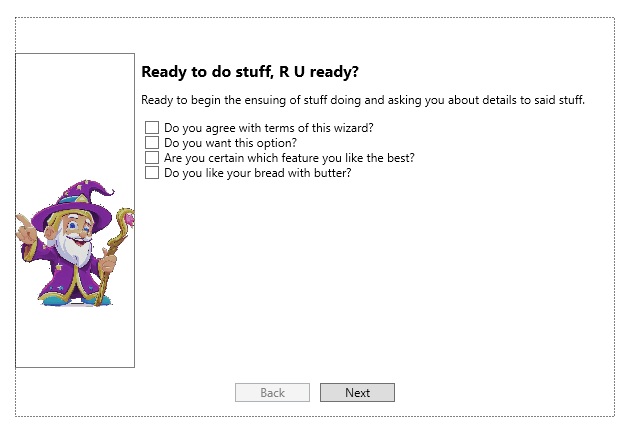
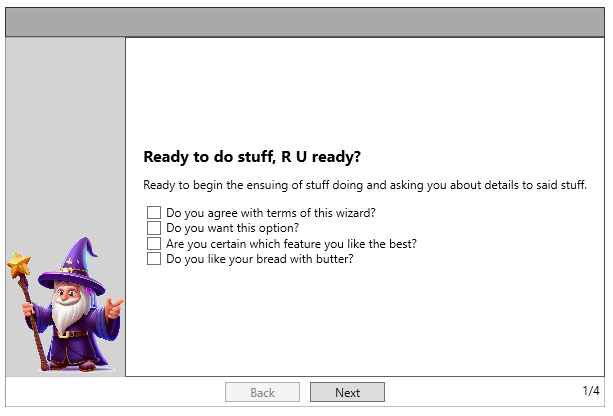
add new images for readme updated numericUpDown. etc.

diff --git a/Themes/Generic.xaml b/Themes/Generic.xaml
@@ -97,43 +97,7 @@
     </Style>
 
 
-    <!--<Style TargetType="{x:Type local:CollectionControlDialog}">
-        <Setter Property="Template">
-            <Setter.Value>
-                <ControlTemplate TargetType="{x:Type local:CollectionControlDialog}">
-                    <Border
-                        Background="{TemplateBinding Background}"
-                        BorderBrush="{TemplateBinding BorderBrush}"
-                        BorderThickness="{TemplateBinding BorderThickness}">
-                        <Grid>
-                            <Grid.RowDefinitions>
-                                <RowDefinition Height="*" />
-                                <RowDefinition Height="Auto" />
-                            </Grid.RowDefinitions>
 
-                            <ListBox
-                                Grid.Row="0"
-                                ItemsSource="{Binding ItemsSource, RelativeSource={RelativeSource TemplatedParent}}"
-                                SelectedItem="{Binding SelectedItem, RelativeSource={RelativeSource TemplatedParent}, Mode=TwoWay}" />
-
-                            <StackPanel Grid.Row="1" Orientation="Horizontal">
-                                <Button
-                                    Width="75"
-                                    Margin="5"
-                                    Command="{Binding AddCommand, RelativeSource={RelativeSource TemplatedParent}}"
-                                    Content="Add" />
-                                <Button
-                                    Width="75"
-                                    Margin="5"
-                                    Command="{Binding RemoveCommand, RelativeSource={RelativeSource TemplatedParent}}"
-                                    Content="Remove" />
-                            </StackPanel>
-                        </Grid>
-                    </Border>
-                </ControlTemplate>
-            </Setter.Value>
-        </Setter>
-    </Style>-->
 
     <Style TargetType="{x:Type local:TerminalControl}">
         <Setter Property="Template">
@@ -143,47 +107,52 @@
                         Background="Black"
                         BorderBrush="Gray"
                         BorderThickness="1">
-                        <Grid>
-                            <Grid.RowDefinitions>
-                                <RowDefinition Height="*" />
-                                <RowDefinition Height="Auto" />
-                            </Grid.RowDefinitions>
-                            <ScrollViewer Grid.Row="0" VerticalScrollBarVisibility="Auto">
-                                <TextBlock
-                                    Padding="10"
-                                    FontFamily="Consolas"
-                                    Foreground="LimeGreen"
-                                    Text="{TemplateBinding OutputText}" />
-                            </ScrollViewer>
-                            <Border
-                                Grid.Row="1"
-                                Padding="10"
-                                Background="Black">
-                                <TextBox
+                        <ScrollViewer>
+                            <Grid>
+                                <Grid.RowDefinitions>
+                                    <RowDefinition Height="*" />
+                                    <RowDefinition Height="Auto" />
+                                </Grid.RowDefinitions>
+                                <ScrollViewer
+                                    Grid.Row="0"
+                                    MaxHeight="400"
+                                    VerticalScrollBarVisibility="Auto">
+                                    <TextBlock
+                                        Padding="10"
+                                        FontFamily="Consolas"
+                                        Foreground="LimeGreen"
+                                        Text="{TemplateBinding OutputText}" />
+                                </ScrollViewer>
+                                <Border
                                     Grid.Row="1"
-                                    local:TextBoxEnterCommandBehavior.EnterCommand="{Binding ExecuteCommandCommand, RelativeSource={RelativeSource FindAncestor, AncestorType={x:Type local:TerminalControl}}}"
-                                    Background="Black"
-                                    BorderThickness="0"
-                                    CaretBrush="LimeGreen"
-                                    FontFamily="Consolas"
-                                    Foreground="LimeGreen"
-                                    Text="{Binding InputText, RelativeSource={RelativeSource TemplatedParent}, Mode=TwoWay, UpdateSourceTrigger=PropertyChanged}">
-                                    <TextBox.Template>
-                                        <ControlTemplate TargetType="TextBox">
-                                            <StackPanel Orientation="Horizontal">
-                                                <TextBlock
-                                                    Background="Black"
-                                                    FontFamily="Consolas"
-                                                    Foreground="LimeGreen"
-                                                    Text="{Binding CurrentDirectory, RelativeSource={RelativeSource FindAncestor, AncestorType={x:Type local:TerminalControl}}}" />
-                                                <ScrollViewer x:Name="PART_ContentHost" />
-                                            </StackPanel>
-                                        </ControlTemplate>
-                                    </TextBox.Template>
-                                </TextBox>
+                                    Padding="10"
+                                    Background="Black">
+                                    <TextBox
+                                        Grid.Row="1"
+                                        local:TextBoxEnterCommandBehavior.EnterCommand="{Binding ExecuteCommandCommand, RelativeSource={RelativeSource FindAncestor, AncestorType={x:Type local:TerminalControl}}}"
+                                        Background="Black"
+                                        BorderThickness="1"
+                                        CaretBrush="LimeGreen"
+                                        FontFamily="Consolas"
+                                        Foreground="LimeGreen"
+                                        Text="{Binding InputText, RelativeSource={RelativeSource TemplatedParent}, Mode=TwoWay, UpdateSourceTrigger=PropertyChanged}">
+                                        <TextBox.Template>
+                                            <ControlTemplate TargetType="TextBox">
+                                                <StackPanel Orientation="Horizontal">
+                                                    <TextBlock
+                                                        Background="Black"
+                                                        FontFamily="Consolas"
+                                                        Foreground="LimeGreen"
+                                                        Text="{Binding CurrentDirectory, RelativeSource={RelativeSource FindAncestor, AncestorType={x:Type local:TerminalControl}}}" />
+                                                    <ScrollViewer x:Name="PART_ContentHost" />
+                                                </StackPanel>
+                                            </ControlTemplate>
+                                        </TextBox.Template>
+                                    </TextBox>
 
-                            </Border>
-                        </Grid>
+                                </Border>
+                            </Grid>
+                        </ScrollViewer>
                     </Border>
                 </ControlTemplate>
             </Setter.Value>

diff --git a/Themes/NumericUpDownStyles.xaml b/Themes/NumericUpDownStyles.xaml
@@ -6,54 +6,57 @@
         <Setter Property="Template">
             <Setter.Value>
                 <ControlTemplate TargetType="{x:Type local:NumericUpDown}">
-                    <Grid>
-                        <Grid.ColumnDefinitions>
-                            <ColumnDefinition Width="*" />
-                            <ColumnDefinition Width="Auto" />
-                        </Grid.ColumnDefinitions>
+                    <Border BorderBrush="{TemplateBinding BorderBrush}" BorderThickness="{TemplateBinding BorderThickness}">
+                        <Grid>
+                            <Grid.ColumnDefinitions>
+                                <ColumnDefinition Width="*" />
+                                <ColumnDefinition Width="Auto" />
+                            </Grid.ColumnDefinitions>
 
-                        <TextBox
-                            Grid.Column="0"
-                            Padding="1"
-                            HorizontalAlignment="Stretch"
-                            VerticalAlignment="Center"
-                            Text="{Binding RelativeSource={RelativeSource TemplatedParent}, Path=Value, UpdateSourceTrigger=PropertyChanged}" />
+                            <TextBox
+                                Grid.Column="0"
+                                Padding="1"
+                                HorizontalAlignment="Stretch"
+                                VerticalAlignment="Center"
+                                Text="{Binding RelativeSource={RelativeSource TemplatedParent}, Path=Value, UpdateSourceTrigger=PropertyChanged}" />
 
-                        <StackPanel Grid.Column="1" Orientation="Horizontal">
+                            <StackPanel Grid.Column="1" Orientation="Horizontal">
 
 
-                            <Button
-                                x:Name="PART_DecreaseButton"
-                                Margin="0,1,0,1"
-                                VerticalAlignment="Center">
-                                <Path
-                                    Width="12"
-                                    Height="12"
-                                    Margin="1"
-                                    VerticalAlignment="Center"
-                                    Data="M128 192l128 128 128-128z"
-                                    Fill="Black"
-                                    IsEnabled="True"
-                                    Stretch="Uniform"
-                                    Stroke="Black" />
-                            </Button>
-                            <Button
-                                x:Name="PART_IncreaseButton"
-                                Margin="0,1,0,1"
-                                VerticalAlignment="Center">
-                                <Path
-                                    Width="12"
-                                    Height="12"
-                                    Margin="1"
-                                    VerticalAlignment="Center"
-                                    Data="M128 320l128-128 128 128z"
-                                    Fill="Black"
-                                    IsEnabled="True"
-                                    Stretch="Uniform"
-                                    Stroke="Black" />
-                            </Button>
-                        </StackPanel>
-                    </Grid>
+                                <Button
+                                    x:Name="PART_DecreaseButton"
+                                    Margin="0,0,0,0"
+                                    VerticalAlignment="Center">
+                                    <Path
+                                        Width="14"
+                                        Height="14"
+                                        Margin=".5"
+                                        VerticalAlignment="Center"
+                                        Data="M128 192l128 128 128-128z"
+                                        Fill="Black"
+                                        IsEnabled="True"
+                                        Stretch="Uniform"
+                                        Stroke="Black" />
+                                </Button>
+                                <Button
+                                    x:Name="PART_IncreaseButton"
+                                    Margin="0,0,0,0"
+                                    VerticalAlignment="Center">
+                                    <Path
+                                        Width="14"
+                                        Height="14"
+                                        Margin=".5"
+                                        VerticalAlignment="Center"
+                                        Data="M128 320l128-128 128 128z"
+                                        Fill="{TemplateBinding Foreground}"
+                                        IsEnabled="True"
+                                        Stretch="Uniform"
+                                        Stroke="{TemplateBinding BorderBrush}" />
+                                </Button>
+                            </StackPanel>
+
+                        </Grid>
+                    </Border>
                 </ControlTemplate>
             </Setter.Value>
         </Setter>

diff --git a/README.md b/README.md
@@ -2,10 +2,18 @@
 
 Welcome to Jon.WPF.CustomControls, a .NET 7.0 WPF C# custom control library. This library aims to provide an assortment of WPF controls to enhance your application's user interface.
 
-![Banner](https://github.com/LittleBigSalino/Jon.Wpf.CustomControls/blob/master/banner.png?raw=true) 
+![ToggleSwitch](./Images/ToggleSwitch.png) 
+
+![ToggleSwitch](./Images/TimePicker.png) 
+
+![ToggleSwitch](./Images/RatingControl.png) 
+
+![ToggleSwitch](./Images/PropertyGrid.png) 
+
+![ToggleSwitch](./Images/ColorPickers.png) 
 
 
-*New WizardControl*
+*Updated WizardControl*
 
 ![WizardScreen](wizardscreen.png)
 
@@ -92,7 +100,7 @@ Converters are used in WPF to transform data from one type to another. They are 
 - `ColorToNameConverter`: Converts a `Color` to its name as a string, if it has one.
 - `PropertyNameConverter`: Converts a property name to a more user-friendly format.
 
-![Converters](./Images/converters.png)
+![Converters](./Images/converters.png  )
 
 Please note that the exact behavior of each converter may depend on its implementation and usage in the controls.
 
